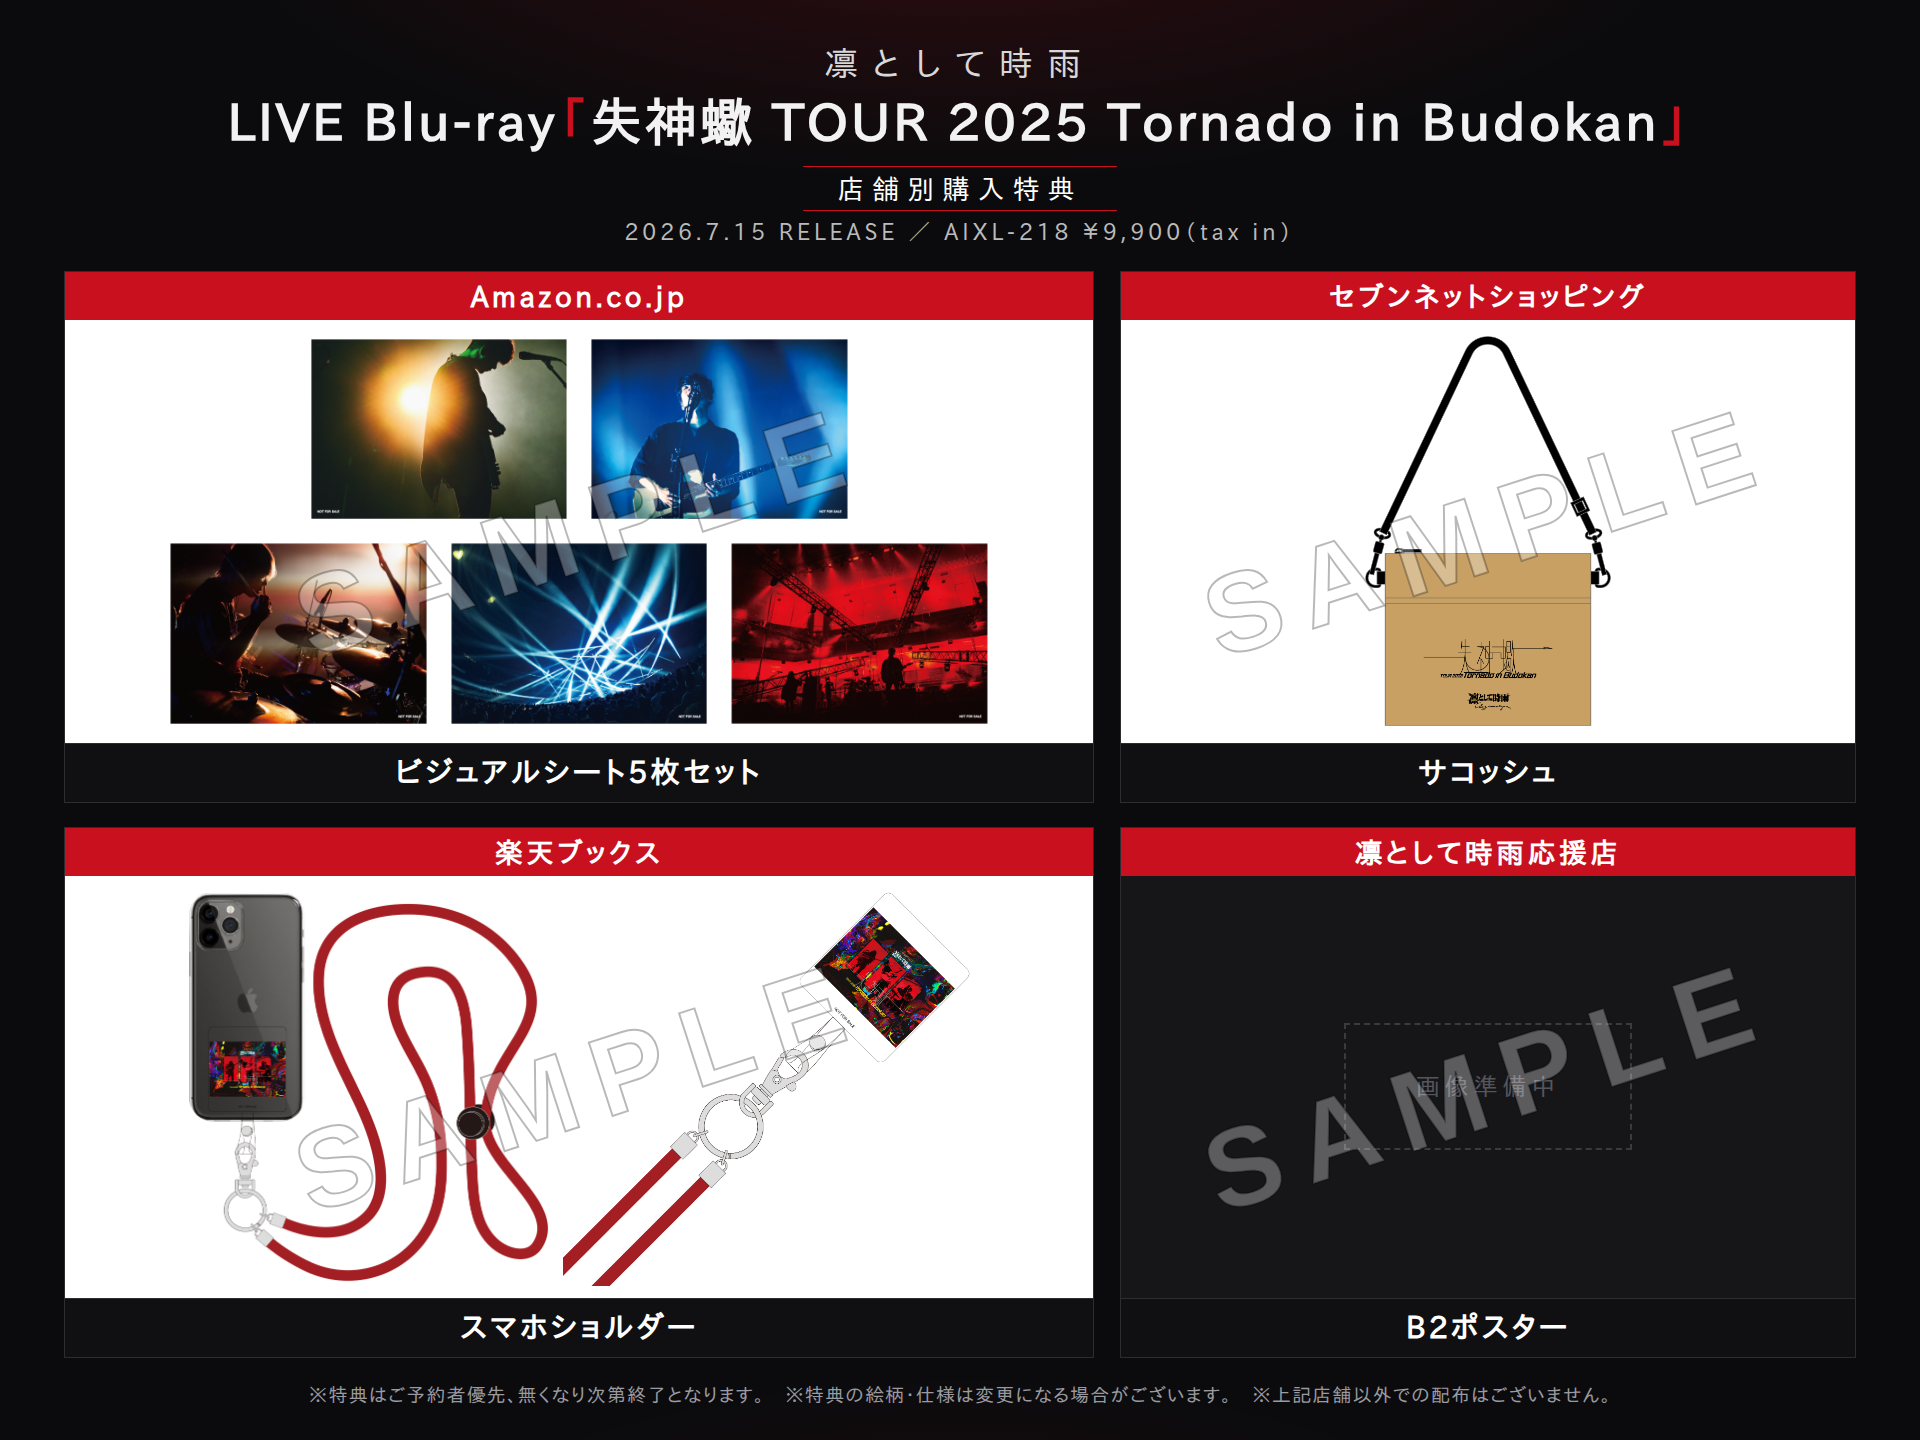
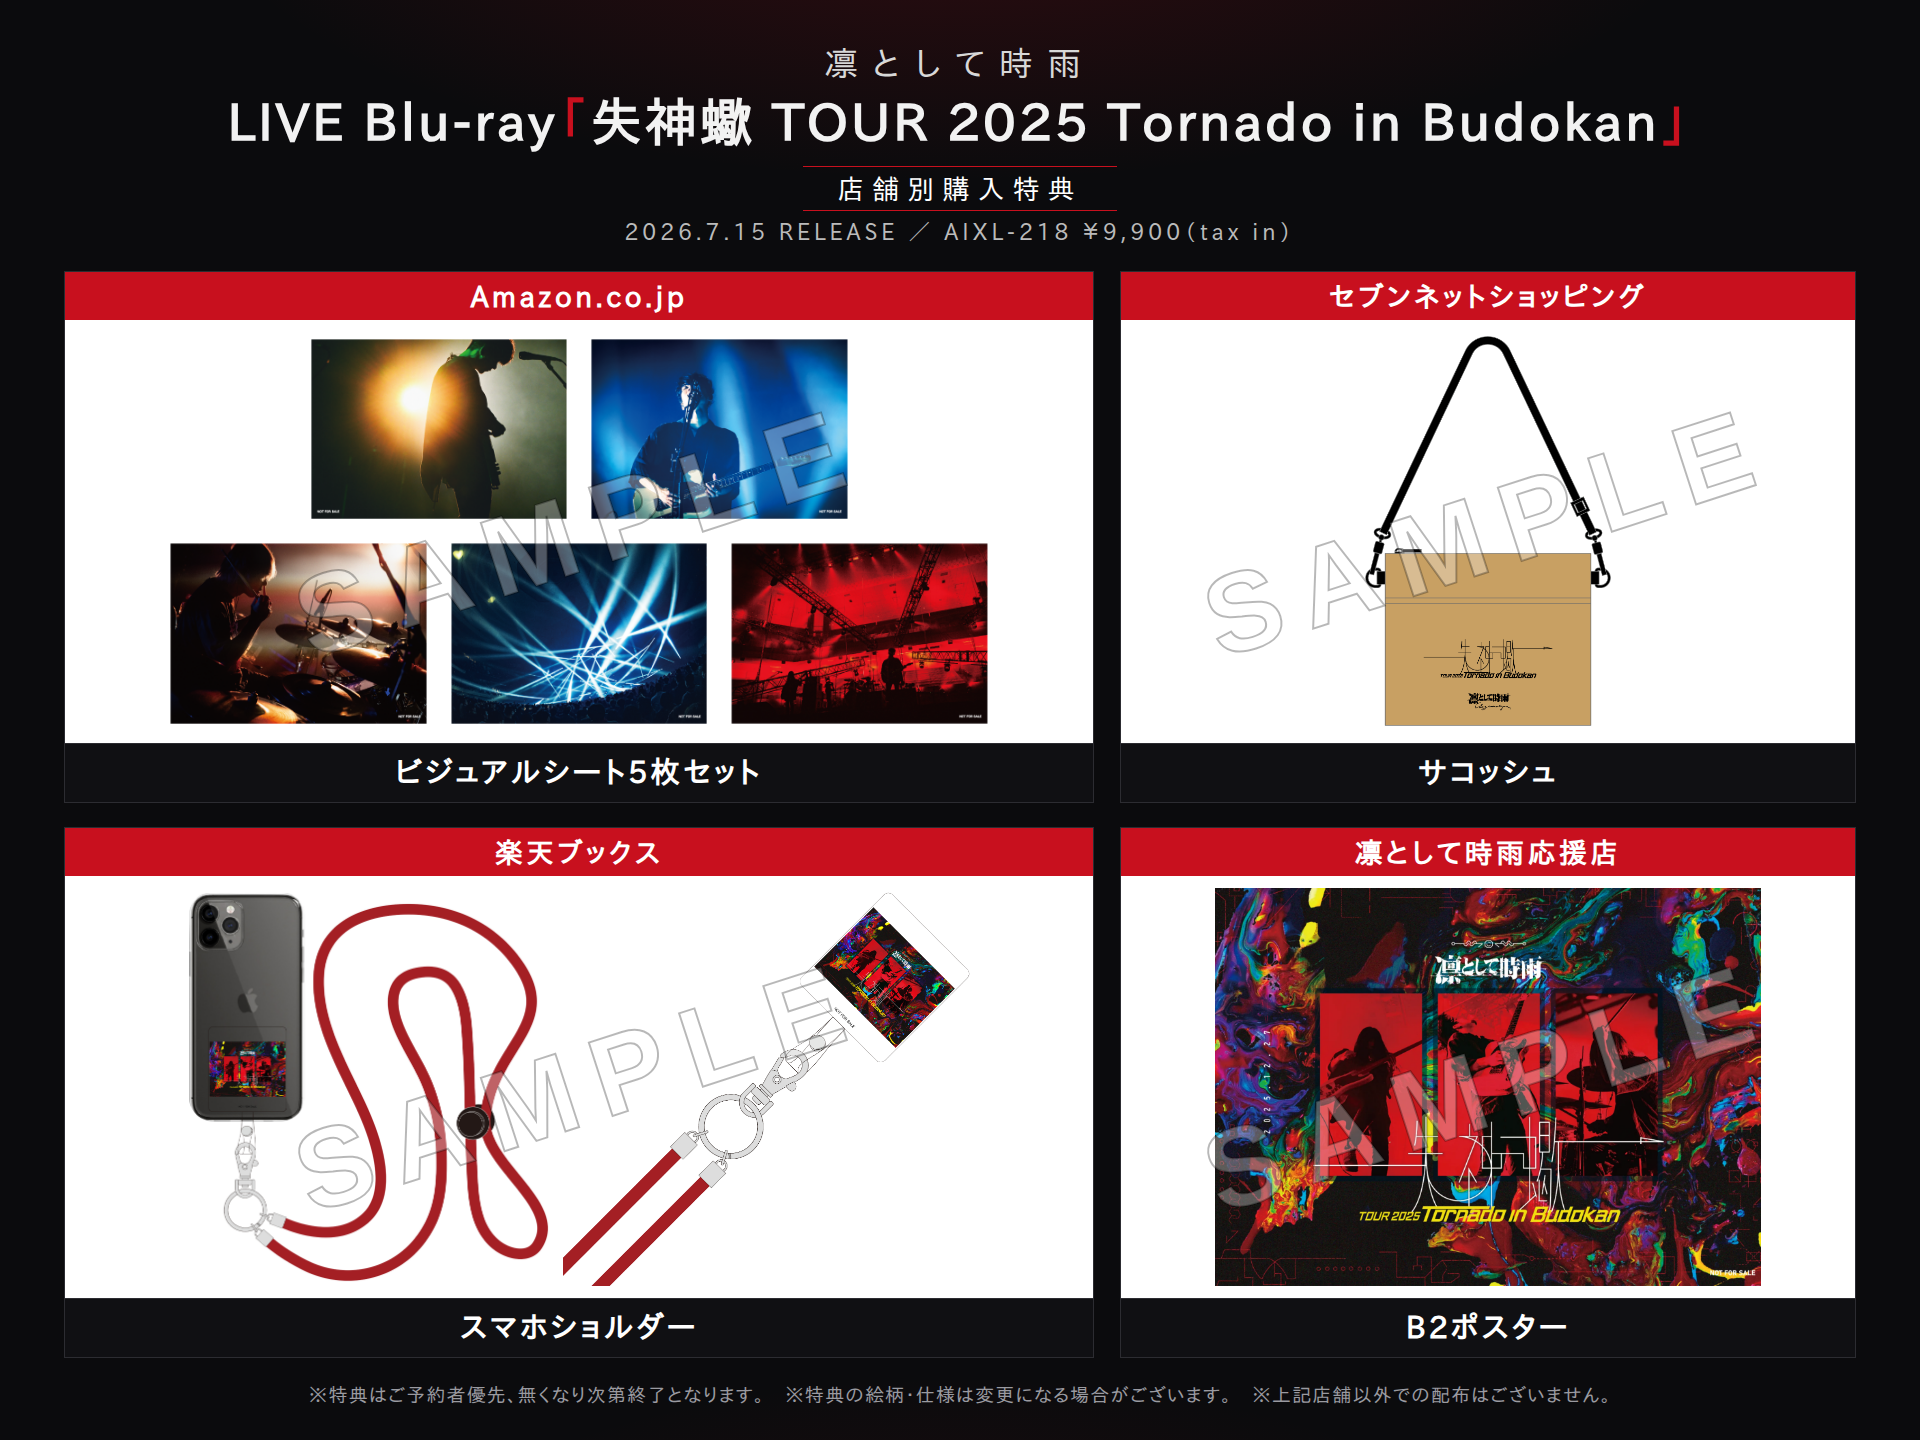
応援店B2ポスター絵柄を受領し、特典レイアウト・単体画像に反映
- 全4特典の絵柄が揃った状態の特典一覧レイアウトを書き出し
- B2ポスター単体のSAMPLE透かし入り画像を追加

Claude-Session: https://claude.ai/code/session_01TeKg5VLZjLDMWckWM4qUFT

Changed region(s): [[0.5625, 0.5938, 0.9688, 0.9062]]

diff --git a/deliverables/shigure_bd_tokuten/README.md b/deliverables/shigure_bd_tokuten/README.md
@@ -21,8 +21,10 @@
 - `rakuten_1.jpg`〜`rakuten_3.jpg` … スマホショルダー（3カット。まとめレイアウトでは
   絵柄の見やすさ優先で _1(装着イメージ) と _3(デザインアップ) の2カットを使用。
   単体画像は3カットすべて書き出し）
-- **応援店 B2ポスターの画像は未支給。** 届き次第 `ouenten.png`（または .jpg）として
-  `layout/assets/` に置いて下記を再実行すると、レイアウト・単体とも自動反映される。
+- `ouenten.webp` … 応援店 B2ポスター（2026/7/8 チャットで受領）
+
+絵柄の差し替えが発生した場合は、該当ファイルを `layout/assets/` に上書きして
+下記を再実行すると、レイアウト・単体とも自動反映される。
 
 ```sh
 cd layout
